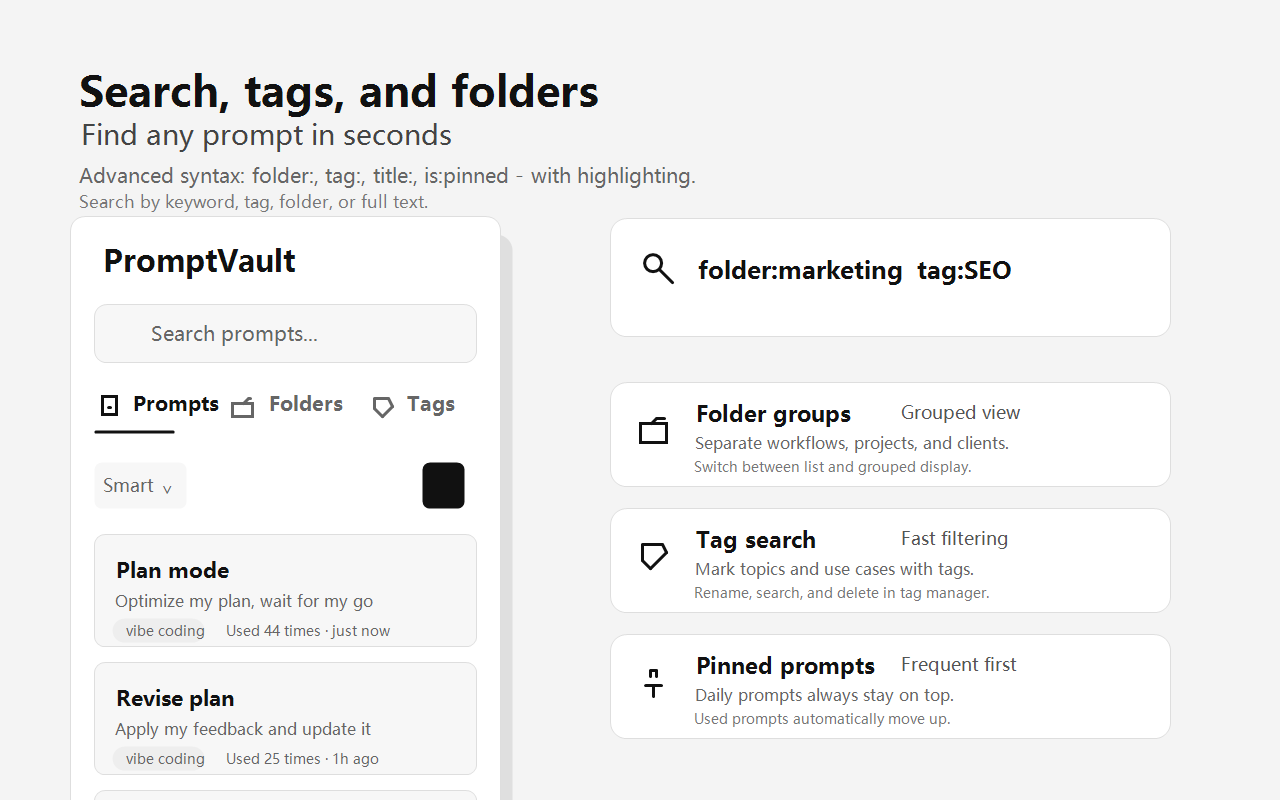
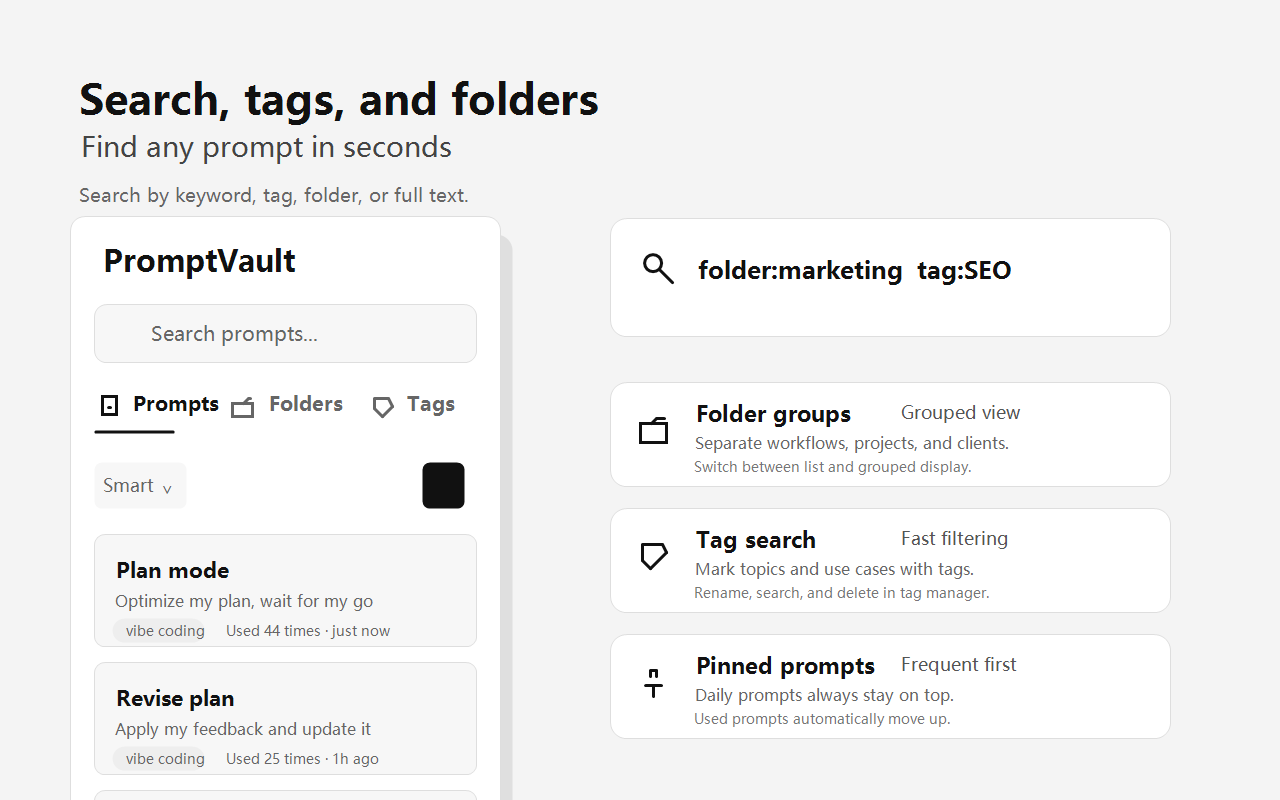
排序与置顶修复：任意排序模式下手动顺序优先
- comparePromptsBySortMode 前置手动顺序（拖拽 + 复制/插入置顶）比较，
  修复「最近使用 / 最近更新 / 使用次数」等模式下复制或插入后不置顶的问题
- 拖拽结束后不再把分组排序模式改回 folderName、列表模式改回 smart，
  用户选择的排序模式保持不变（之前一拖就跳回「文件夹名称」）
- promotePrompt 无既有顺序时写入 -1 而非 0，与拖拽写入的 0..N 分离，
  形成独立的置顶栈
- 设置提示与 README 同步为「任意排序模式下生效」
- 商店截图第 3 张删除「支持 folder: / tag: / title: / is:pinned 高级语法」
  描述行并重排文案基线（中英两套同步重生成）

Changed region(s): [[0.0625, 0.0938, 0.5312, 0.2812]]

diff --git a/popup.js b/popup.js
@@ -1318,10 +1318,18 @@
 
   function comparePromptsBySortMode(a, b, sortMode) {
     if (a.pinned !== b.pinned) return a.pinned ? -1 : 1;
+    // Manual order (drag-and-drop plus copy/insert promotion) wins in EVERY
+    // sort mode, so a dragged or just-used prompt is never re-sorted away.
+    const aHasOrder = Number.isFinite(a.sortOrder);
+    const bHasOrder = Number.isFinite(b.sortOrder);
+    if (aHasOrder && bHasOrder && a.sortOrder !== b.sortOrder) {
+      return a.sortOrder - b.sortOrder;
+    }
+    if (aHasOrder !== bHasOrder) return aHasOrder ? -1 : 1;
     switch (sortMode) {
       case 'smart':
       case 'custom': // legacy value: "custom" was merged into "smart"
-        return compareByManualOrder(a, b);
+        return compareSmartPrompts(a, b);
       case 'recent':
         return (b.lastUsedAt || 0) - (a.lastUsedAt || 0) ||
           (b.updatedAt || 0) - (a.updatedAt || 0);
@@ -2001,20 +2009,8 @@
         await Storage.reorderPrompts(orderedIds);
       }
 
-      // Dragging means "I want this order". Switch to the mode that honours
-      // manual order, otherwise the drop would be re-sorted away instantly.
-      if (isGroupedSortMode()) {
-        if (currentGroupSortMode !== 'folderName') {
-          currentGroupSortMode = 'folderName';
-          await persistSortModes();
-          updateSortSelectOptions();
-        }
-      } else if (currentSortMode !== 'smart') {
-        currentSortMode = 'smart';
-        await persistSortModes();
-        updateSortSelectOptions();
-      }
-
+      // Dragging only persists the new manual order — the chosen sort mode is
+      // left untouched, because manual order now takes priority in every mode.
       await renderAll();
     });
   }

diff --git a/i18n.js b/i18n.js
@@ -337,9 +337,9 @@ if (typeof window.PromptVaultI18n === 'undefined') {
       settings_show_recent_hint: '在首页显示最近使用的提示词',
       // Settings - auto top after use
       settings_auto_top: '复制后置顶',
-      settings_auto_top_hint: '复制提示词后自动置顶（智能排序模式下生效）',
+      settings_auto_top_hint: '复制提示词后自动置顶（任意排序模式下生效）',
       settings_insert_top: '插入后置顶',
-      settings_insert_top_hint: '插入提示词后自动置顶（智能排序模式下生效）',
+      settings_insert_top_hint: '插入提示词后自动置顶（任意排序模式下生效）',
       // Settings - auto send after insert (ChatGPT)
       settings_auto_send: '插入后自动发送',
       settings_auto_send_hint: '插入提示词后自动点击 ChatGPT 的发送按钮（仅 ChatGPT 页面生效）',
@@ -689,7 +689,7 @@ if (typeof window.PromptVaultI18n === 'undefined') {
       settings_auto_top: 'Auto Top After Copy',
       settings_auto_top_hint: 'Automatically pin to top after copying (works in smart sort mode)',
       settings_insert_top: 'Auto Top After Insert',
-      settings_insert_top_hint: 'Automatically pin to top after inserting (works in smart sort mode)',
+      settings_insert_top_hint: 'Automatically pin to top after inserting (works in every sort mode)',
       // Settings - auto send after insert (ChatGPT)
       settings_auto_send: 'Auto Send After Insert',
       settings_auto_send_hint: 'Automatically click the ChatGPT send button after inserting (ChatGPT only)',

diff --git a/popup.html b/popup.html
@@ -441,14 +441,14 @@
               <input type="checkbox" id="setting-auto-top">
               <span data-i18n="settings_auto_top">复制后置顶</span>
             </label>
-            <p class="setting-hint" data-i18n="settings_auto_top_hint">复制提示词后自动置顶（智能排序模式下生效）</p>
+            <p class="setting-hint" data-i18n="settings_auto_top_hint">复制提示词后自动置顶（任意排序模式下生效）</p>
           </div>
           <div class="form-group">
             <label class="checkbox-label">
               <input type="checkbox" id="setting-insert-top">
               <span data-i18n="settings_insert_top">插入后置顶</span>
             </label>
-            <p class="setting-hint" data-i18n="settings_insert_top_hint">插入提示词后自动置顶（智能排序模式下生效）</p>
+            <p class="setting-hint" data-i18n="settings_insert_top_hint">插入提示词后自动置顶（任意排序模式下生效）</p>
           </div>
           <div class="form-group">
             <label class="checkbox-label">

diff --git a/storage.js b/storage.js
@@ -262,7 +262,8 @@ if (typeof window.PromptVaultStorage === 'undefined') {
     const orders = data.prompts
       .map(p => p.sortOrder)
       .filter(v => Number.isFinite(v));
-    prompt.sortOrder = orders.length ? Math.min(...orders) - 1 : 0;
+    // Negative values form the promotion stack, always above drag order (0..N).
+    prompt.sortOrder = orders.length ? Math.min(...orders) - 1 : -1;
     await saveAll(data);
   }
 

diff --git a/README.md b/README.md
@@ -72,7 +72,7 @@
 | 语言 | 中文 / English（自动检测） |
 | 显示角标 | 扩展图标上显示提示词数量 |
 | 显示最近使用 | 首页显示最近使用的提示词 |
-| 复制/插入后置顶 | 使用过的提示词自动排到最前（智能排序模式） |
+| 复制/插入后置顶 | 使用过的提示词自动排到最前（全部排序模式生效） |
 | 插入后自动发送 | 在 ChatGPT 插入提示词后自动点击发送按钮（默认关闭） |
 | 回收站 | 删除的提示词先进入回收站，可还原（默认关闭） |
 | 显示模式 | 列表 / 按文件夹分组 |
